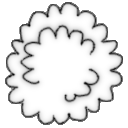
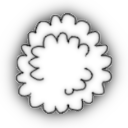
add tree gen

diff --git a/native_app/src/rendering/map_rendering.rs b/native_app/src/rendering/map_rendering.rs
@@ -1,13 +1,14 @@
 use egregoria::rendering::{Color, LinearColor};
 use egregoria::utils::Restrict;
-use geom::{vec2, Vec2};
+use geom::vec2;
 use map_model::{
     BuildingKind, Lane, LaneKind, Map, ProjectKind, TrafficBehavior, TurnKind, CROSSWALK_WIDTH,
 };
 use std::ops::Mul;
 use wgpu_engine::{
-    compile_shader, CompiledShader, FrameContext, GfxContext, InstanceRaw, Mesh, ShadedBatch,
-    ShadedBatchBuilder, ShadedInstanceRaw, Shaders, SpriteBatch, SpriteBatchBuilder, Tesselator,
+    compile_shader, CompiledShader, FrameContext, GfxContext, InstanceRaw, Mesh, MultiSpriteBatch,
+    MultiSpriteBatchBuilder, ShadedBatch, ShadedBatchBuilder, ShadedInstanceRaw, Shaders,
+    SpriteBatch, SpriteBatchBuilder, Tesselator,
 };
 
 #[derive(Clone, Copy)]
@@ -29,8 +30,8 @@ pub struct RoadRenderer {
     arrow_builder: SpriteBatchBuilder,
     tree_shadows: Option<SpriteBatch>,
     tree_shadows_builder: SpriteBatchBuilder,
-    trees: Option<SpriteBatch>,
-    tree_builder: SpriteBatchBuilder,
+    trees: Option<MultiSpriteBatch>,
+    tree_builder: MultiSpriteBatchBuilder,
     crosswalks: Option<ShadedBatch<Crosswalk>>,
 }
 
@@ -52,7 +53,18 @@ impl RoadRenderer {
 
         gfx.register_pipeline::<ShadedBatch<Crosswalk>>();
 
-        let tree_builder = SpriteBatchBuilder::from_path(gfx, "assets/tree.png");
+        let tree_builder = MultiSpriteBatchBuilder::from_paths(
+            gfx,
+            &[
+                "assets/tree.png",
+                "assets/tree2.png",
+                "assets/tree3.png",
+                "assets/tree4.png",
+                "assets/tree5.png",
+                "assets/tree6.png",
+                "assets/tree7.png",
+            ],
+        );
         let tree_shadow_builder = SpriteBatchBuilder::from_path(gfx, "assets/tree_shadow.png");
 
         RoadRenderer {
@@ -305,17 +317,21 @@ impl RoadRenderer {
         builder.build(&gfx)
     }
 
-    pub fn trees(&mut self, map: &mut Map, gfx: &GfxContext) -> Option<SpriteBatch> {
-        self.tree_builder.instances.clear();
+    pub fn trees(&mut self, map: &mut Map, gfx: &GfxContext) -> Option<MultiSpriteBatch> {
+        self.tree_builder.clear();
 
         for (pos, t) in map.trees.trees() {
-            self.tree_builder.instances.push(InstanceRaw::new(
-                pos,
-                t.dir,
-                Z_TREE + t.size * 0.001,
-                Color::new(t.col * 0.32, t.col * 0.45, t.col * 0.42, 1.0).into(),
-                t.size,
-            ));
+            self.tree_builder.push(
+                (common::rand::rand3(pos.x, pos.y, 10.0) * self.tree_builder.n_texs() as f32)
+                    as usize,
+                InstanceRaw::new(
+                    pos,
+                    t.dir,
+                    Z_TREE,
+                    Color::new(t.col * 0.32, t.col * 0.45, t.col * 0.42, 1.0).into(),
+                    t.size,
+                ),
+            );
         }
 
         self.tree_builder.build(gfx)

diff --git a/map_model/src/procgen/trees.rs b/map_model/src/procgen/trees.rs
@@ -65,7 +65,7 @@ impl Trees {
 
             let r3 = common::rand::rand3(sample.x, sample.y, 2.0);
 
-            let delta_elev = (height(sample) - elev).abs() * 100.0;
+            let delta_elev = (height(sample) - elev).abs() * 50.0;
 
             if r3 < sample.distance(forest_pos) / span + delta_elev {
                 active.remove(idx);
@@ -76,19 +76,21 @@ impl Trees {
                 let theta = 2.0 * std::f32::consts::PI * common::rand::rand3(i, j as f32, k as f32);
                 let dist = common::rand::rand3(i, j as f32, k as f32 + 10.0);
 
-                let pos = sample + Vec2::from_angle(theta) * (6.0 + dist * 30.0);
+                let srand = common::rand::rand3(sample.x as f32, sample.y, k as f32);
+                let scale = 10.0 + 6.0 * srand;
 
-                if self.grid.query_around(pos, 6.0).next().is_some() {
+                let pos = sample + Vec2::from_angle(theta) * (scale * 0.5 * (1.0 + dist));
+
+                if self.grid.query_around(pos, scale * 0.5).next().is_some() {
                     continue;
                 }
 
-                let srand = common::rand::rand2(pos.x as f32 + 0.391, pos.y as f32 + 0.9381);
+                let crand = common::rand::rand3(pos.x as f32, pos.y, 1.0);
 
-                let colscale = 0.7 - 0.2 * srand;
-                let scale = 10.0 + 6.0 * srand;
+                let colscale = 0.7 - 0.2 * crand;
                 let angle = 2.0
                     * std::f32::consts::PI
-                    * common::rand::rand2(pos.x as f32 + 0.31, pos.y as f32 + 31.9381);
+                    * common::rand::rand3(pos.x as f32, pos.y as f32, 2.0);
 
                 self.grid.insert(
                     pos,

diff --git a/egregoria/src/map_dynamic/add_trees.rs b/egregoria/src/map_dynamic/add_trees.rs
@@ -7,6 +7,6 @@ pub fn add_trees(#[resource] map: &mut Map) {
         for _ in 0..10 {
             while !map.trees.add_forest() && map.trees.counter > 0 {}
         }
-        map.dirty = true;
     }
+    map.dirty = true;
 }
